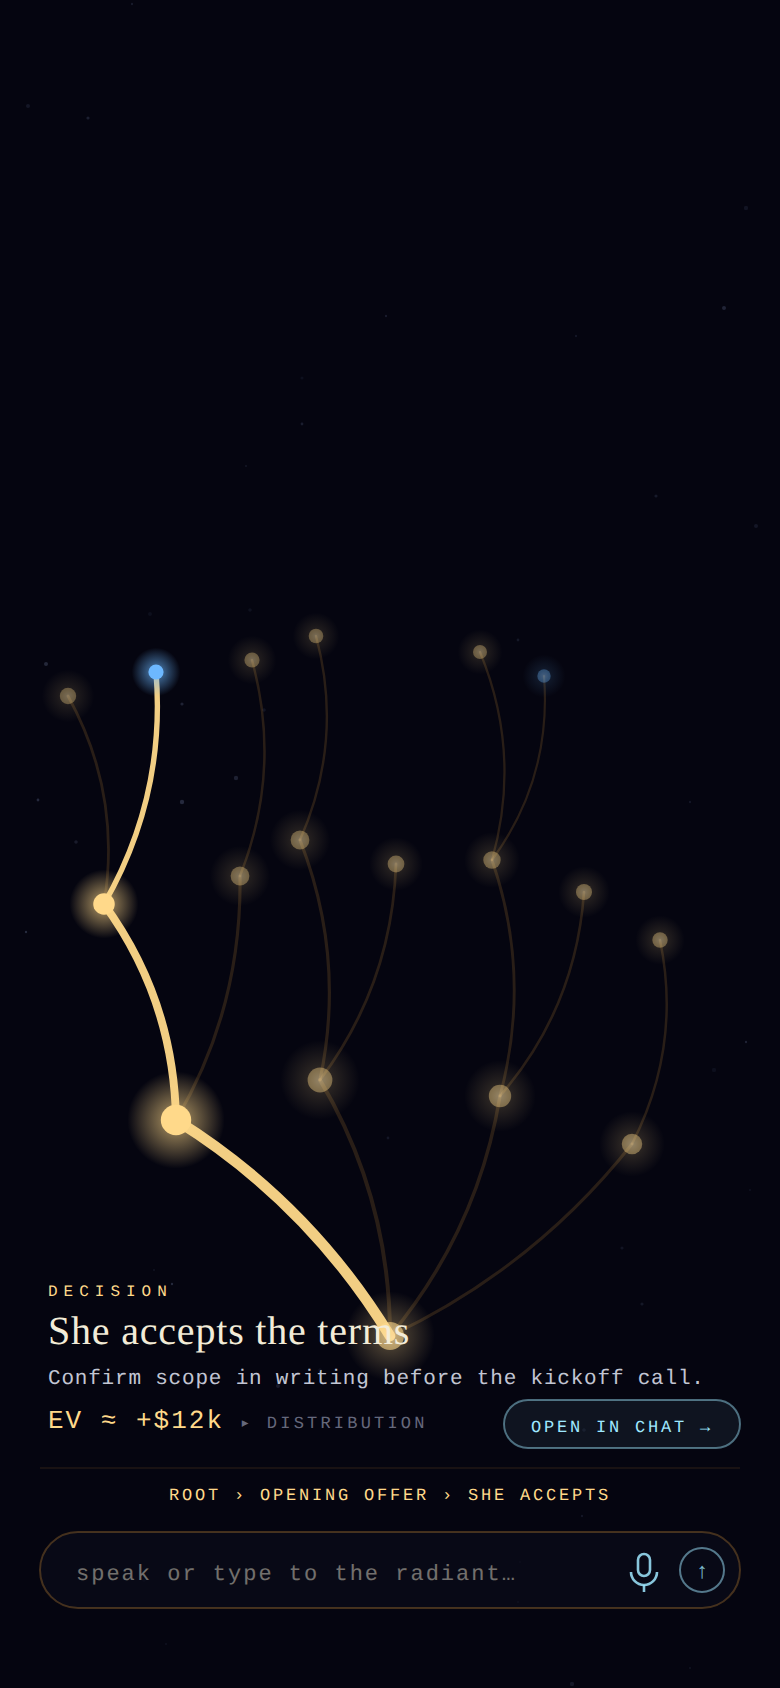
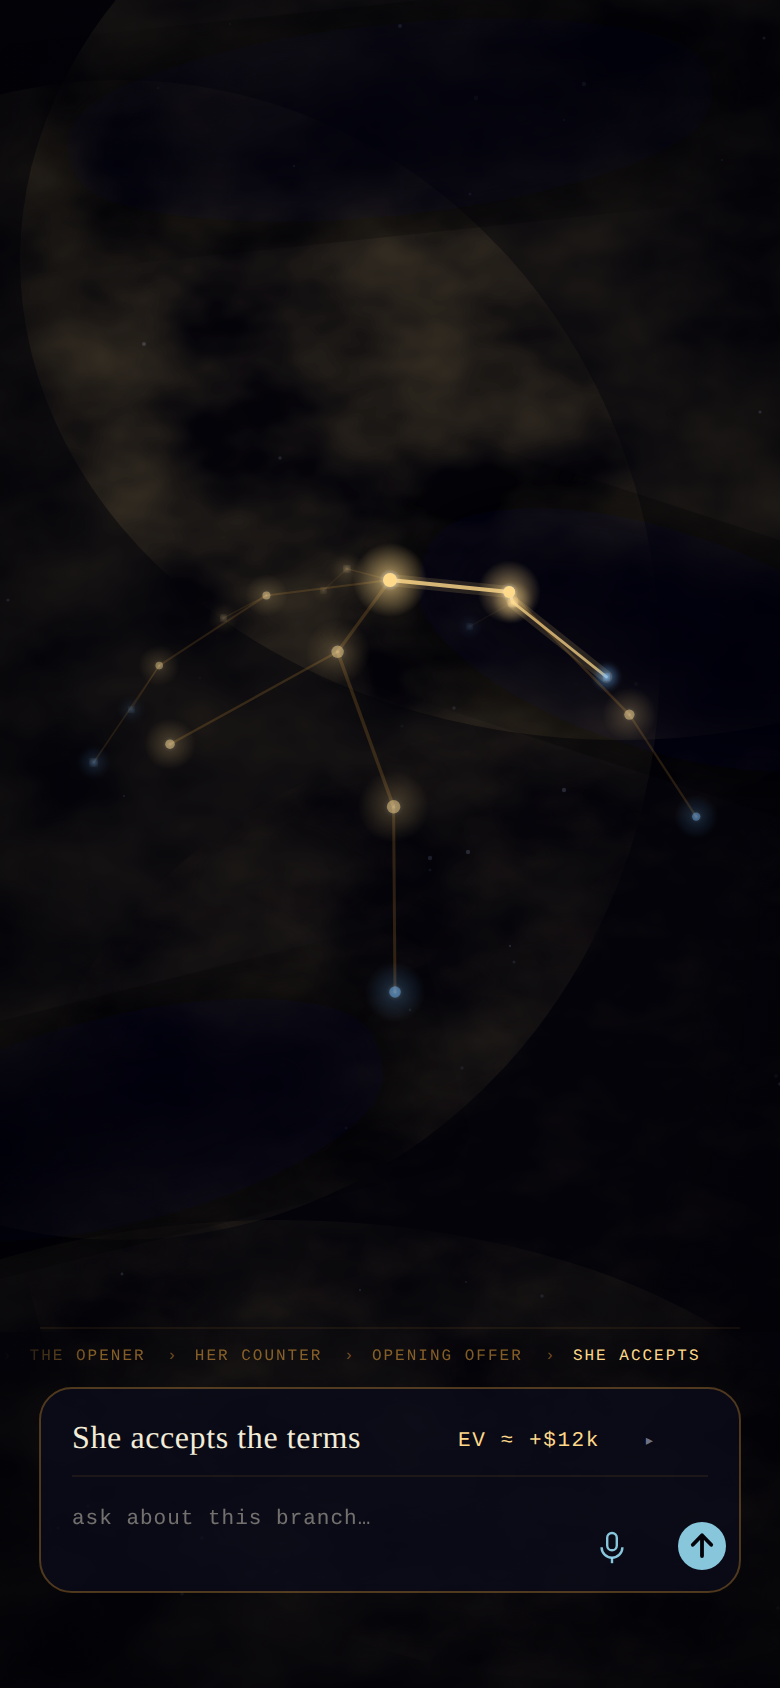
docs: art update — new mocks (nebula/constellation direction), implementation notes, world/motion/haptics tokens
Divergences from handoff (art update wins, per Nik 2026-07-24):
- home status glyphs + outcome text -> luminance-only, one serif title (notes §4)
- onboarding line drops 'sign in with ChatGPT' -> 'touch to begin'
- footer bar histogram -> capsule ridge w/ mu meanline + graduated axis
Note: shared/mocks/generate.py + SVGs not updated by the art drop; new PNGs
are ground truth until a regenerated generator lands.

diff --git a/docs/radiant-implementation-notes.md b/docs/radiant-implementation-notes.md
@@ -1,0 +1,70 @@
+# Prime Radiant — Implementation Notes: Motion, Gesture, and World Dynamics
+
+Companion to `prime-radiant-handoff.md` and the nine mocks in `shared/mocks/`. The mocks are stills of a moving instrument; this doc is everything the stills can't show. Where this conflicts with the main spec, the main spec wins — flag the divergence.
+
+---
+
+## 1. The world model (get this right first)
+
+- **One void, one shell, one camera.** All content — every scenario's tree, every home constellation — lives at persistent coordinates on a single spherical *coordinate shell* (reference R≈280 layout units) floating in a nebula that surrounds the camera on all sides. There is **no ground, no horizon, no sky, no up**. The user is never *on* anything; they fly *through*.
+- **Two reference camera states, one rig:** home (distance ≈1.5R from shell, tilt ≈0.22rad) and canvas (close, ≈0.4R, tilt ≈0.58rad). Every screen transition between home and a scenario is a **continuous camera flight** between these states aimed at the scenario's shell coordinates — no scene swaps, no crossfades, ever. SceneKit: one scene, one `SCNCamera`, animate the rig.
+- **Depth cues, in priority order:** (1) perspective foreshortening from the shell arrangement (near nodes ~1.4× larger than far at equal tree depth — measured reference in the mocks); (2) depth dimming, `opacity ∝ clamp(scale^1.9, 0.34, 1)`; (3) **depth-of-field** — nodes with projected scale <0.88 blur softly (SceneKit camera DoF with focus at selection distance, or per-node gaussian at LOD); (4) edge widths scale with the mean of their endpoints' depth factors; (5) frame-edge vignette. The nebula itself never clips or bands — cloud density varies smoothly.
+- **The nebula is alive but glacial:** turbulence fields drift imperceptibly (full-texture migration over ~3–5 min); dark rifts wander. Parallax: nebula layers move at ~0.15×/0.35×/0.6× of camera motion so orbiting reveals volume. Under Reduce Motion: static nebula, no drift.
+
+## 2. Gesture lexicon (complete; nothing else exists)
+
+| Gesture | Context | Effect |
+|---|---|---|
+| tap node | canvas | select: ignite + reflow + capsule loads context |
+| tap void | canvas | deselect: reflow back, capsule → idle |
+| drag | canvas/home | swing the camera through the void around the shell |
+| pinch | canvas/home | zoom (continuous; pinching out far enough on canvas begins the flight home; pinching into a home cluster begins the dive) |
+| press-and-hold node | canvas | mark-reached ring fills (~700ms); release early = cancel; hold a reached node = unmark; hold a terminal = resolve flow |
+| tap cluster | home | dive (camera flight to canvas state at that scenario's coordinates) |
+| press-and-hold cluster | home | lifts under finger (haptic); ARCHIVE / DELETE wells fade in at bottom edge; drag in to act (delete soft, single undo toast); release elsewhere = settle back |
+| tap ribbon label | canvas | jump selection to that ancestor (full ignite + reflow) |
+| horizontal drag on ribbon | canvas | scrolls the path with momentum; edge fades persist at every position |
+| tap capsule text area | anywhere | opens full-screen chat (carries any typed text + `focusedNodeId` anchor) |
+| swipe down | chat | return to canvas (chat collapses into the capsule) |
+| partial swipe down + hold | chat | **peek**: chat slides off to reveal live canvas at full brightness; release snaps back |
+| hold mic / tap-latch mic | anywhere | voice input |
+| tap EV / ▸ | capsule | expand/collapse the luminous ridge |
+| tap unborn node | empty home | create first scenario |
+
+**Doctrine: no on-screen gesture instruction of any kind** — no hints, coach marks, tutorials, or labels. Feedback teaches: the hold gesture announces itself through the ring + haptic beginning on finger-down.
+
+## 3. Motion design (timings are targets; feel > numbers)
+
+- **Selection reflow:** on-path sectors bloom to ~3.2× angular weight, siblings compress to ~0.5×; nodes lerp ~0.9–1.1s ease-in-out with chords redrawn live every frame (pre-allocate geometry; never rebuild per frame). Simultaneously the path ignites: gold sweeps root→node along the chords (~350ms, slightly ahead of the reflow), under-glow fades in. **Gentle-pan invariant:** camera may pan (never zoom) on selection, sized so the selected node and its children stay in-viewport; deselect pans back.
+- **Hold-to-mark:** ring fills over ~700ms with a rising haptic ramp; at completion: ring flash, single strong haptic, realized path solidifies (permanent brighter filament, ~250ms sweep), unrealized siblings ghost down over ~400ms, EVs recount visibly in the capsule (number ticks to new value, ~300ms). Early release: ring drains fast (~150ms), no haptic thud.
+- **Dive (home ↔ canvas):** ~900ms camera flight, ease-in-out, curvature continuous; target cluster's nodes sharpen out of depth-of-field as approached while other clusters blur/dim past the frame; nebula parallax sells the motion. Reverse identical. During flight, UI chrome (labels, capsule) crossfades at the endpoints only.
+- **Chat enter:** capsule morphs upward into the full-screen surface (~350ms); tree settles to 15% ghost. **Patch arrival in chat:** ghost brightens 15%→35%, reorganization animates behind the messages, "◈ the futures reorganize…" status line, settle back over ~600ms after the animation completes. **Peek:** chat translates with the finger 1:1; past ~40% travel, releasing returns to canvas; under that, spring-snap back (~250ms).
+- **Distribution ridge:** expands inside the capsule (~300ms): capsule grows, ridge line *draws* left→right (~400ms) with the fill rising beneath it; μ meanline fades in last. Collapse reverses fast (~200ms).
+- **Voice listening:** concentric rings around the mic pulse outward (~1.6s period); the whole tree brightens ~15%; live waveform; transcript assembles above the capsule and is tap-to-edit before send.
+- **Composing:** capsule grows with content; context header compresses to the single anchor line over ~200ms.
+- **Idle (>5s, nothing selected):** slow ambient camera drift (fraction of a degree/s).
+- **Empty-home unborn node:** slow pulse (~2.4s period), glow radius ±20%.
+- **Reduce Motion:** all of the above become instant state changes (no lerps, no drift, no pulse, static nebula); haptics unchanged; DoF still applies (it's depth, not motion).
+
+## 4. States, statuses, and copy
+
+- **Status is luminance, not iconography:** resolved constellations render at ~42% with dimmed labels. No glyphs, timestamps, or status text anywhere on home; each cluster carries exactly one serif title line.
+- **Context-aware composer placeholders (the placeholder is state, never instruction):** idle canvas → `describe the decision…`; node selected → `ask about this branch…`; mid-thread chat → `…`. Anchor chip (`◉ <node> ✕`) appears in the chat composer when node-anchored; `✕` clears the anchor.
+- **Composer icons:** mic and send are one family — mic ~10×15 at 1.2 stroke; send is a **filled cyan disc** (r12) with a void-colored drawn arrow at 1.9 stroke. Send disc brightens slightly when there's content.
+- **Ignited path is a clean straight highlight** — gold chord + soft under-glow, nothing else. No ticks, no numerals, no ornament on edges. Etched instrument language (graduation ticks) exists **only** on the ridge's payoff axis.
+- Onboarding is the flythrough video (produced from this same engine — script a camera path through a large generated tree); one line over it: `touch to begin`. Anywhere-tap starts OAuth.
+
+## 5. Haptics map
+
+light tick: node select · soft double: deselect · ramp: mark-hold filling · strong thud: mark complete · light: ribbon jump · medium: cluster lift · success pattern: scenario resolve · none: scrolling, zooming, chat.
+
+## 6. Performance & correctness (encode as tests)
+
+- 60fps orbit at 200 nodes on iPhone 12; reflow ≤1.2s without geometry-rebuild jank (pre-allocated buffers, vertex updates only).
+- Picking is **screen-space nearest** among ray hits; gestures beginning on UI overlays never reach canvas logic.
+- Ribbon: tap selects the tapped ancestor; overlap-free at any depth (measure rendered label gaps ≥3px in a snapshot test — this exact bug shipped in a mock once); edge fades at every scroll position.
+- Capsule/ribbon are one stacked container — overlap structurally impossible.
+- Text overflow audit on every screen (nothing outside safe area except the ribbon's intentional off-edge run).
+- Depth verification test: render the reference tree, assert near/far node-size ratio ≥1.3 and DoF applied below the scale threshold — keep the mocks' measured feel from drifting.
+
+*The generators in `shared/mocks/` are executable ground truth for layout math (sphere projection, orbital sectors, ridge geometry) — port constants from `generate.py`, not from eyeballing the PNGs.*
